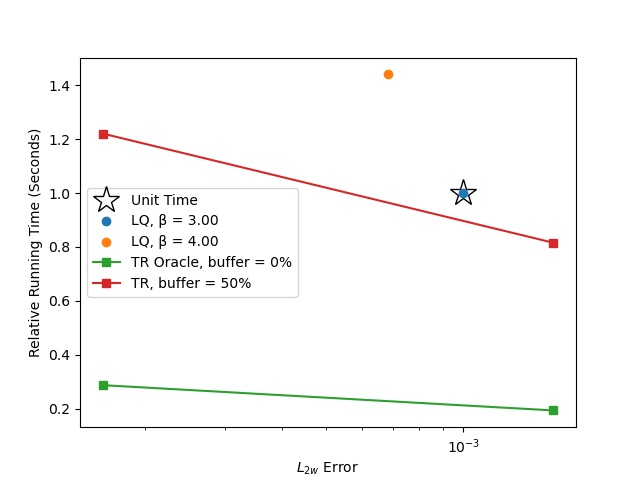
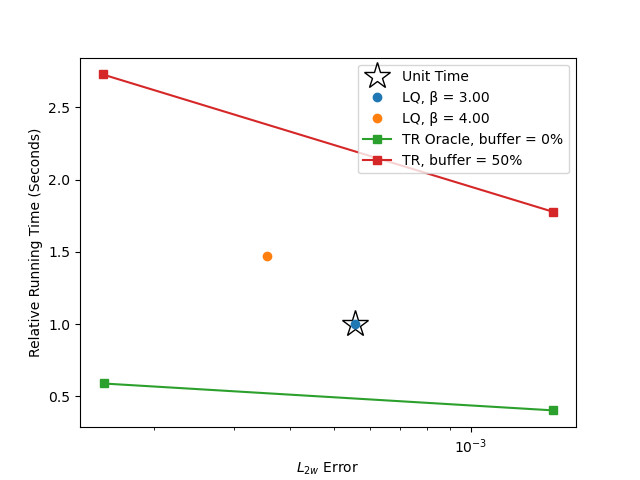
saving history now optional

diff --git a/EXAMPLE_2DTiming_TRvsLQ_Loop.py b/EXAMPLE_2DTiming_TRvsLQ_Loop.py
@@ -16,20 +16,19 @@ radius = 2
 h = 0.05
 betaVals = [3, 4]
 bufferVals = [0, 0.5]
-endTime =20
+endTime =10
 spacingLQVals = [0.38]
-spacingTRVals = [0.2, 0.18]
+spacingTRVals = [0.25, 0.2, 0.18]
 
 
 # dimension = 2
-# radius = 3
+# radius = 2
 # h = 0.05
 # betaVals = [4]
-# bufferVals = [0, 0.3, 0.5]
-# endTime =1
-
+# bufferVals = [0.5]
+# endTime =20
 # spacingLQVals = [0.38]
-# spacingTRVals = [0.2]
+# spacingTRVals = [0.18]
 
 
 # SDE creation
@@ -86,94 +85,101 @@ def get2DTrapezoidalMeshBasedOnLejaQuadratureSolution(simulationLQ, spacingTR, b
 
     return mesh
 
-numIterations =3
+numIterations =9
 original_stdout = sys.stdout # Save a reference to the original standard output
-with open('Output/outputInformationAllTimes.txt', 'w') as g:
-    sys.stdout = g
-    print("dimension: ", dimension, " Iterations: ", numIterations, " initial radius: ", radius, "endTime: ", endTime, "time step: ", h, "\n")
+# with open('Output/outputInformationAllTimes.txt', 'w') as g:
+    # sys.stdout = g
+    # print("dimension: ", dimension, " Iterations: ", numIterations, " initial radius: ", radius, "endTime: ", endTime, "time step: ", h, "\n")
 
-    for beta in betaVals:
-        ErrorsLQ = []
-        timingArrayStorageLQ = []
-        for spacingLQ in spacingLQVals:
-            print("\nLQ: beta= ", beta, ", spacing= ", spacingLQ, ":\n")
-            timingPerRunArrayLQ = []
-            errorsPerRunArrayLQ = []
-            meshLengthsPerRunArrayLQ = []
-            for iteration in range(numIterations):
-                # SDE parameter creation
-                parametersLQ = Parameters(sde, beta, radius, spacingLQ, spacingLQ, h,useAdaptiveMesh =adaptive, timeDiscretizationType = "EM", integratorType="LQ", saveHistory=saveHistory)
-                simulationLQ = Simulation(sde, parametersLQ, endTime)
+for beta in betaVals:
+    ErrorsLQ = []
+    timingArrayStorageLQ = []
+    allTimingsArrayStorageLQ = []
+    allErrorsTimingArrayStorageLQ = []
+    for spacingLQ in spacingLQVals:
+        print("\nLQ: beta= ", beta, ", spacing= ", spacingLQ, ":\n")
+        timingPerRunArrayLQ = []
+        errorsPerRunArrayLQ = []
+        meshLengthsPerRunArrayLQ = []
+        for iteration in range(numIterations):
+            # SDE parameter creation
+            parametersLQ = Parameters(sde, beta, radius, spacingLQ, spacingLQ, h,useAdaptiveMesh =adaptive, timeDiscretizationType = "EM", integratorType="LQ", saveHistory=saveHistory)
+            simulationLQ = Simulation(sde, parametersLQ, endTime)
 
-                startTimeLQ = time.time()
-                simulationLQ.setUpTransitionMatrix(sde, parametersLQ)
-                stepByStepTimingLQ = simulationLQ.computeAllTimes(sde, parametersLQ)
-                totalTimeLQ = time.time() - startTimeLQ
-                meshTrueSolnLQ = simulationLQ.meshTrajectory[-1]
-                pdfTrueSolnLQ = sde.exactSolution(simulationLQ.meshTrajectory[-1], endTime)
+            startTimeLQ = time.time()
+            simulationLQ.setUpTransitionMatrix(sde, parametersLQ)
+            stepByStepTimingLQ = simulationLQ.computeAllTimes(sde, parametersLQ)
+            totalTimeLQ = time.time() - startTimeLQ
+            meshTrueSolnLQ = simulationLQ.meshTrajectory[-1]
+            pdfTrueSolnLQ = sde.exactSolution(simulationLQ.meshTrajectory[-1], endTime)
 
-                LinfErrors, L2Errors, L1Errors, L2wErrors = ErrorValsOneTime(simulationLQ.meshTrajectory[-1], simulationLQ.pdfTrajectory[-1], meshTrueSolnLQ, pdfTrueSolnLQ, interpolate=False)
+            LinfErrors, L2Errors, L1Errors, L2wErrors = ErrorValsOneTime(simulationLQ.meshTrajectory[-1], simulationLQ.pdfTrajectory[-1], meshTrueSolnLQ, pdfTrueSolnLQ, interpolate=False)
 
-                timingPerRunArrayLQ.append(np.copy(totalTimeLQ))
-                errorsPerRunArrayLQ.append(np.copy(L2wErrors))
-                meshLengthsPerRunArrayLQ.append(np.copy(simulationLQ.pdf.meshLength))
+            timingPerRunArrayLQ.append(np.copy(totalTimeLQ))
+            errorsPerRunArrayLQ.append(np.copy(L2wErrors))
+            meshLengthsPerRunArrayLQ.append(np.copy(simulationLQ.pdf.meshLength))
 
-            print("Timing LQ: ", timingPerRunArrayLQ)
-            print("Errors LQ: ", errorsPerRunArrayLQ)
-            print("Mesh Size LQ: ", meshLengthsPerRunArrayLQ)
+        print("Timing LQ: ", timingPerRunArrayLQ)
+        print("Errors LQ: ", errorsPerRunArrayLQ)
+        print("Mesh Size LQ: ", meshLengthsPerRunArrayLQ)
 
-            medianTimingLQ = np.median(np.asarray(timingPerRunArrayLQ))
-            indx,  = np.where(timingPerRunArrayLQ == medianTimingLQ)[0]
-            timingArrayStorageLQ.append(np.copy(medianTimingLQ))
-            ErrorsLQ.append(np.copy(errorsPerRunArrayLQ[indx]))
+        allTimingsArrayStorageLQ.append(np.copy(np.asarray(timingPerRunArrayLQ)))
+        allErrorsTimingArrayStorageLQ.append(np.copy(errorsPerRunArrayLQ))
 
-            numPointsLQ.append(np.copy(meshLengthsPerRunArrayLQ[indx]))
+        medianTimingLQ = np.median(np.asarray(timingPerRunArrayLQ))
+        indx,  = np.where(timingPerRunArrayLQ == medianTimingLQ)[0]
+        timingArrayStorageLQ.append(np.copy(medianTimingLQ))
+        ErrorsLQ.append(np.copy(errorsPerRunArrayLQ[indx]))
 
-        betaDict_times[beta] = np.copy(timingArrayStorageLQ)
-        betaDict_errors[beta] = np.copy(ErrorsLQ)
+        numPointsLQ.append(np.copy(meshLengthsPerRunArrayLQ[indx]))
 
-    for bufferVal in bufferVals:
-        ErrorsTR = []
-        timingArrayStorageTR = []
-        for spacingTR in spacingTRVals:
-            print("\nTR: buffer= ", bufferVal, ", spacing= ", spacingTR, ":\n")
-            timingPerRunArrayTR = []
-            errorsPerRunArrayTR = []
-            meshLengthsPerRunArrayTR = []
-            for iteration in range(numIterations):
-                meshTR = get2DTrapezoidalMeshBasedOnLejaQuadratureSolution(simulationLQ, spacingTR, bufferVal)
-                parametersTR = Parameters(sde, beta, radius, spacingTR, spacingTR, h,useAdaptiveMesh =False, timeDiscretizationType = "EM", integratorType="TR", OverideMesh = meshTR, saveHistory=saveHistory)
+    betaDict_times[beta] = np.copy(timingArrayStorageLQ)
+    betaDict_errors[beta] = np.copy(ErrorsLQ)
 
-                simulationTR = Simulation(sde, parametersTR, endTime)
-                startTimeTR = time.time()
-                simulationTR.setUpTransitionMatrix(sde, parametersTR)
+for bufferVal in bufferVals:
+    ErrorsTR = []
+    timingArrayStorageTR = []
+    allTimingsArrayStorageTR = []
+    for spacingTR in spacingTRVals:
+        print("\nTR: buffer= ", bufferVal, ", spacing= ", spacingTR, ":\n")
+        timingPerRunArrayTR = []
+        errorsPerRunArrayTR = []
+        meshLengthsPerRunArrayTR = []
+        for iteration in range(numIterations):
+            meshTR = get2DTrapezoidalMeshBasedOnLejaQuadratureSolution(simulationLQ, spacingTR, bufferVal)
+            parametersTR = Parameters(sde, beta, radius, spacingTR, spacingTR, h,useAdaptiveMesh =False, timeDiscretizationType = "EM", integratorType="TR", OverideMesh = meshTR, saveHistory=saveHistory)
 
-                stepByStepTimingTR = simulationTR.computeAllTimes(sde, parametersTR)
-                totalTimeTR = time.time() - startTimeTR
+            simulationTR = Simulation(sde, parametersTR, endTime)
+            startTimeTR = time.time()
+            simulationTR.setUpTransitionMatrix(sde, parametersTR)
 
-                meshTrueSolnTR = simulationTR.meshTrajectory[-1]
-                pdfTrueSolnTR = sde.exactSolution(simulationTR.meshTrajectory[-1], endTime)
-                LinfErrors, L2Errors, L1Errors, L2wErrors = ErrorValsOneTime(simulationTR.meshTrajectory[-1], simulationTR.pdfTrajectory[-1], meshTrueSolnTR, pdfTrueSolnTR, interpolate=False)
+            stepByStepTimingTR = simulationTR.computeAllTimes(sde, parametersTR)
+            totalTimeTR = time.time() - startTimeTR
 
-                timingPerRunArrayTR.append(np.copy(totalTimeTR))
-                errorsPerRunArrayTR.append(np.copy(L2wErrors))
-                meshLengthsPerRunArrayTR.append(np.copy(simulationTR.pdf.meshLength))
+            meshTrueSolnTR = simulationTR.meshTrajectory[-1]
+            pdfTrueSolnTR = sde.exactSolution(simulationTR.meshTrajectory[-1], endTime)
+            LinfErrors, L2Errors, L1Errors, L2wErrors = ErrorValsOneTime(simulationTR.meshTrajectory[-1], simulationTR.pdfTrajectory[-1], meshTrueSolnTR, pdfTrueSolnTR, interpolate=False)
 
-            print("Timing TR: ", timingPerRunArrayTR)
-            print("Errors TR: ", errorsPerRunArrayTR)
-            print("Mesh Size TR: ", meshLengthsPerRunArrayTR)
+            timingPerRunArrayTR.append(np.copy(totalTimeTR))
+            errorsPerRunArrayTR.append(np.copy(L2wErrors))
+            meshLengthsPerRunArrayTR.append(np.copy(simulationTR.pdf.meshLength))
 
-            medianTimingTR = np.median(np.asarray(timingPerRunArrayTR))
+        print("Timing TR: ", timingPerRunArrayTR)
+        print("Errors TR: ", errorsPerRunArrayTR)
+        print("Mesh Size TR: ", meshLengthsPerRunArrayTR)
 
-            numPointsTR.append(np.copy(simulationTR.pdf.meshLength))
+        allTimingsArrayStorageTR.append(np.copy(np.asarray(timingPerRunArrayTR)))
 
-            timingArrayStorageTR.append(np.copy(medianTimingTR))
-            ErrorsTR.append(np.copy(errorsPerRunArrayTR[0]))
+        medianTimingTR = np.median(np.asarray(timingPerRunArrayTR))
 
-        bufferDict_times[bufferVal] = np.copy(timingArrayStorageTR)
-        bufferDict_errors[bufferVal] = np.copy(ErrorsTR)
-g.close()
-sys.stdout = original_stdout # Reset the standard output to its original value
+        numPointsTR.append(np.copy(simulationTR.pdf.meshLength))
+
+        timingArrayStorageTR.append(np.copy(medianTimingTR))
+        ErrorsTR.append(np.copy(errorsPerRunArrayTR[0]))
+
+
+    bufferDict_times[bufferVal] = np.copy(timingArrayStorageTR)
+    bufferDict_errors[bufferVal] = np.copy(ErrorsTR)
 
 
 
@@ -202,21 +208,21 @@ for buff in bufferVals:
 plt.legend()
 plt.xlabel(r'$L_{2w}$ Error')
 plt.ylabel("Relative Running Time (Seconds)")
-plt.savefig('Output/timingFigureT20.png')
+plt.savefig('Output/timingFigureT20-9.png')
 
 
-ListToSave = [betaDict_times, betaDict_errors, bufferDict_times, bufferDict_errors, betaVals, bufferVals, spacingLQVals, spacingTRVals, numPointsLQ, numPointsTR, h, radius, endTime]
+ListToSave = [betaDict_times, betaDict_errors, bufferDict_times, bufferDict_errors, betaVals, bufferVals, spacingLQVals, spacingTRVals, numPointsLQ, numPointsTR, h, radius, endTime, allTimingsArrayStorageLQ, allErrorsTimingArrayStorageLQ, allTimingsArrayStorageTR]
 import pickle
 
 # define dictionary
 # create a binary pickle file
-f = open("Output/fileT20.pkl","wb")
+f = open("Output/fileT20-9.pkl","wb")
 pickle.dump(ListToSave,f)
 f.close()
 
 
 original_stdout = sys.stdout # Save a reference to the original standard output
-with open('Output/outputInformationSummary.txt', 'w') as f:
+with open('Output/outputInformationSummary-9.txt', 'w') as f:
     sys.stdout = f # Change the standard output to the file we created.
     print("dimension: ", dimension, " Iterations: ", numIterations, " initial radius: ", radius, "endTime: ", endTime, "time step: ", h, "\n")
     print("Erorrs LQ", betaDict_errors)

diff --git a/EXAMPLE_2DTiming_TRvsLQ_Loop_ReadIn.py b/EXAMPLE_2DTiming_TRvsLQ_Loop_ReadIn.py
@@ -39,6 +39,9 @@ numPointsTR = objects[0][9]
 h=objects[0][10]
 radius = objects[0][11]
 endTime = objects[0][12]
+allTimingsArrayStorageLQ = objects[0][13]
+allErrorsTimingArrayStorageLQ=objects[0][14]
+allTimingsArrayStorageTR = objects[0][15]
 
 unitTime = np.asarray(betaDict_times[min(betaVals)])[0]
 unitError = np.asarray(betaDict_errors[min(betaVals)])[0]
